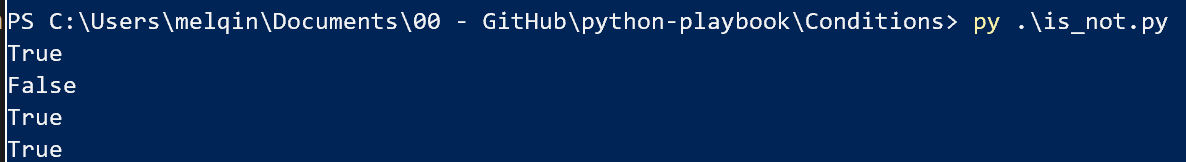
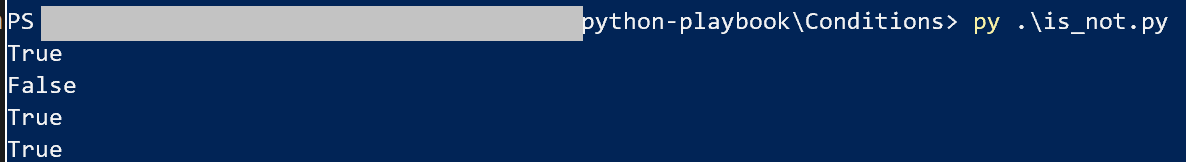
update the masks

Changed region(s): [[0.0312, 0.0309, 0.4992, 0.2778]]

diff --git a/README.md b/README.md
@@ -14,6 +14,8 @@ For instance,  there are the following Python docs in this repo :
 There are the following Python code samples in this repo
 - Python calculator
 - Radmon Functions in Azure Python Function
+- Python to call Azure Cognitive Services ( Text Analytics API )
+- Other sample code for each learning section
 
 
 ## Guide blog site 
